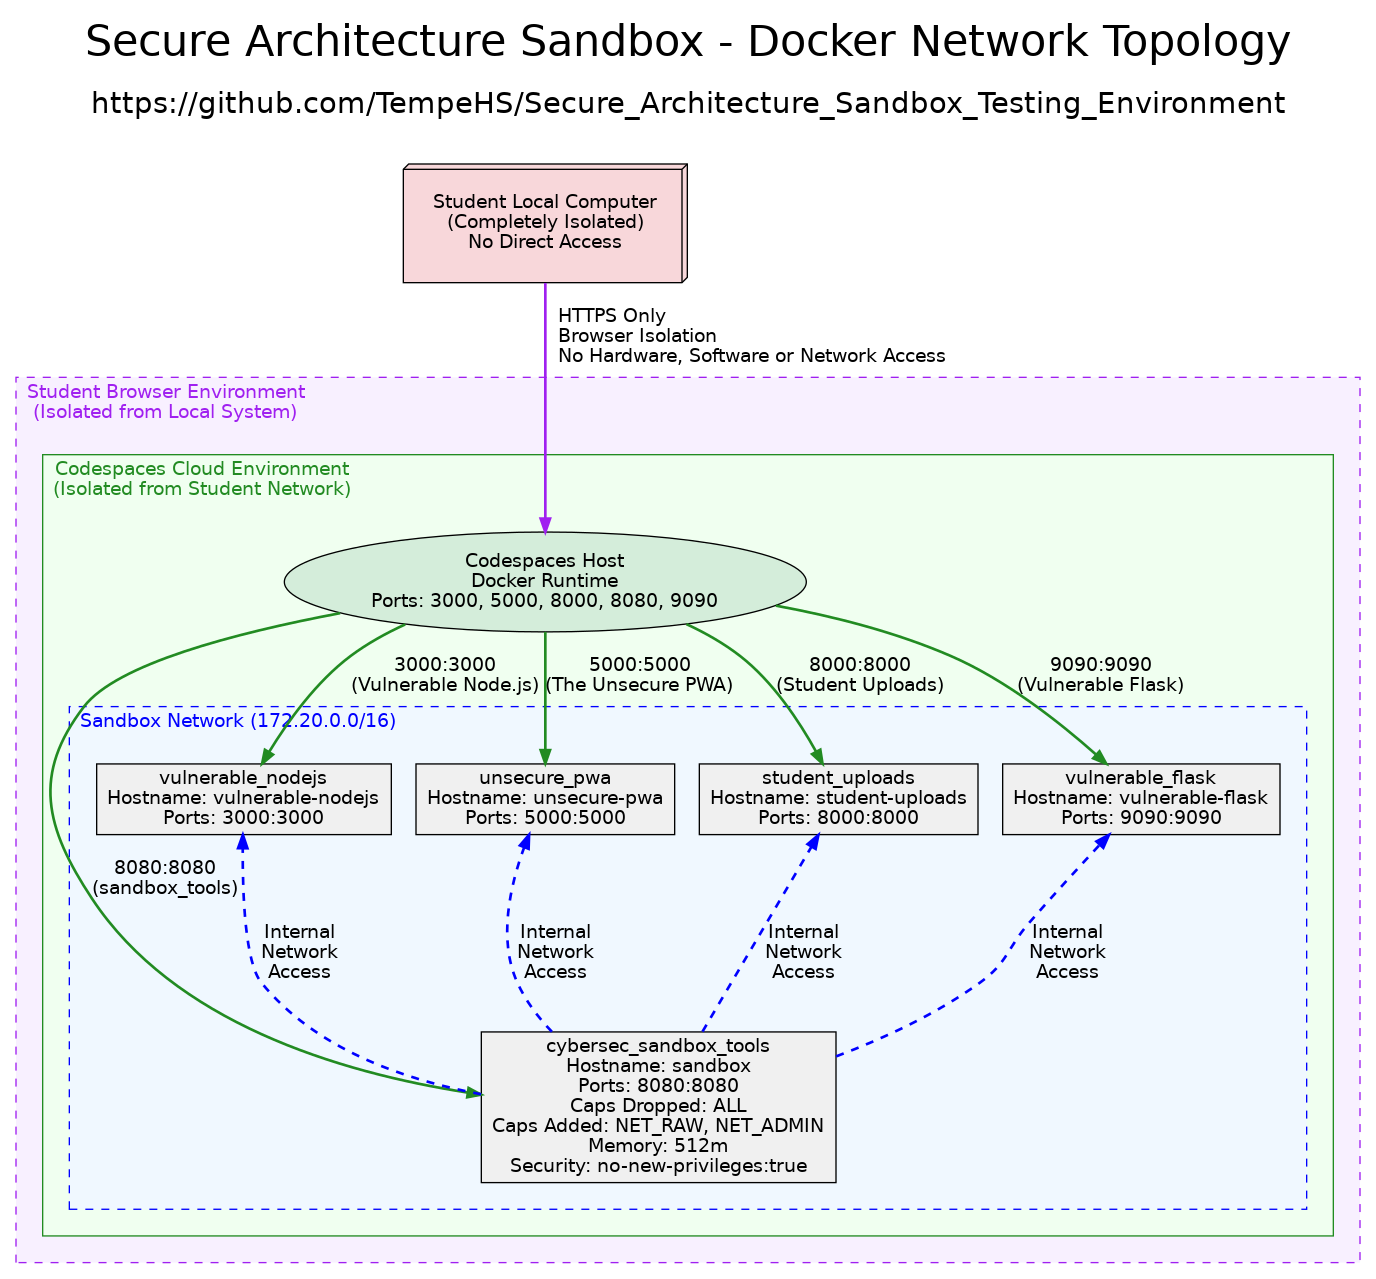
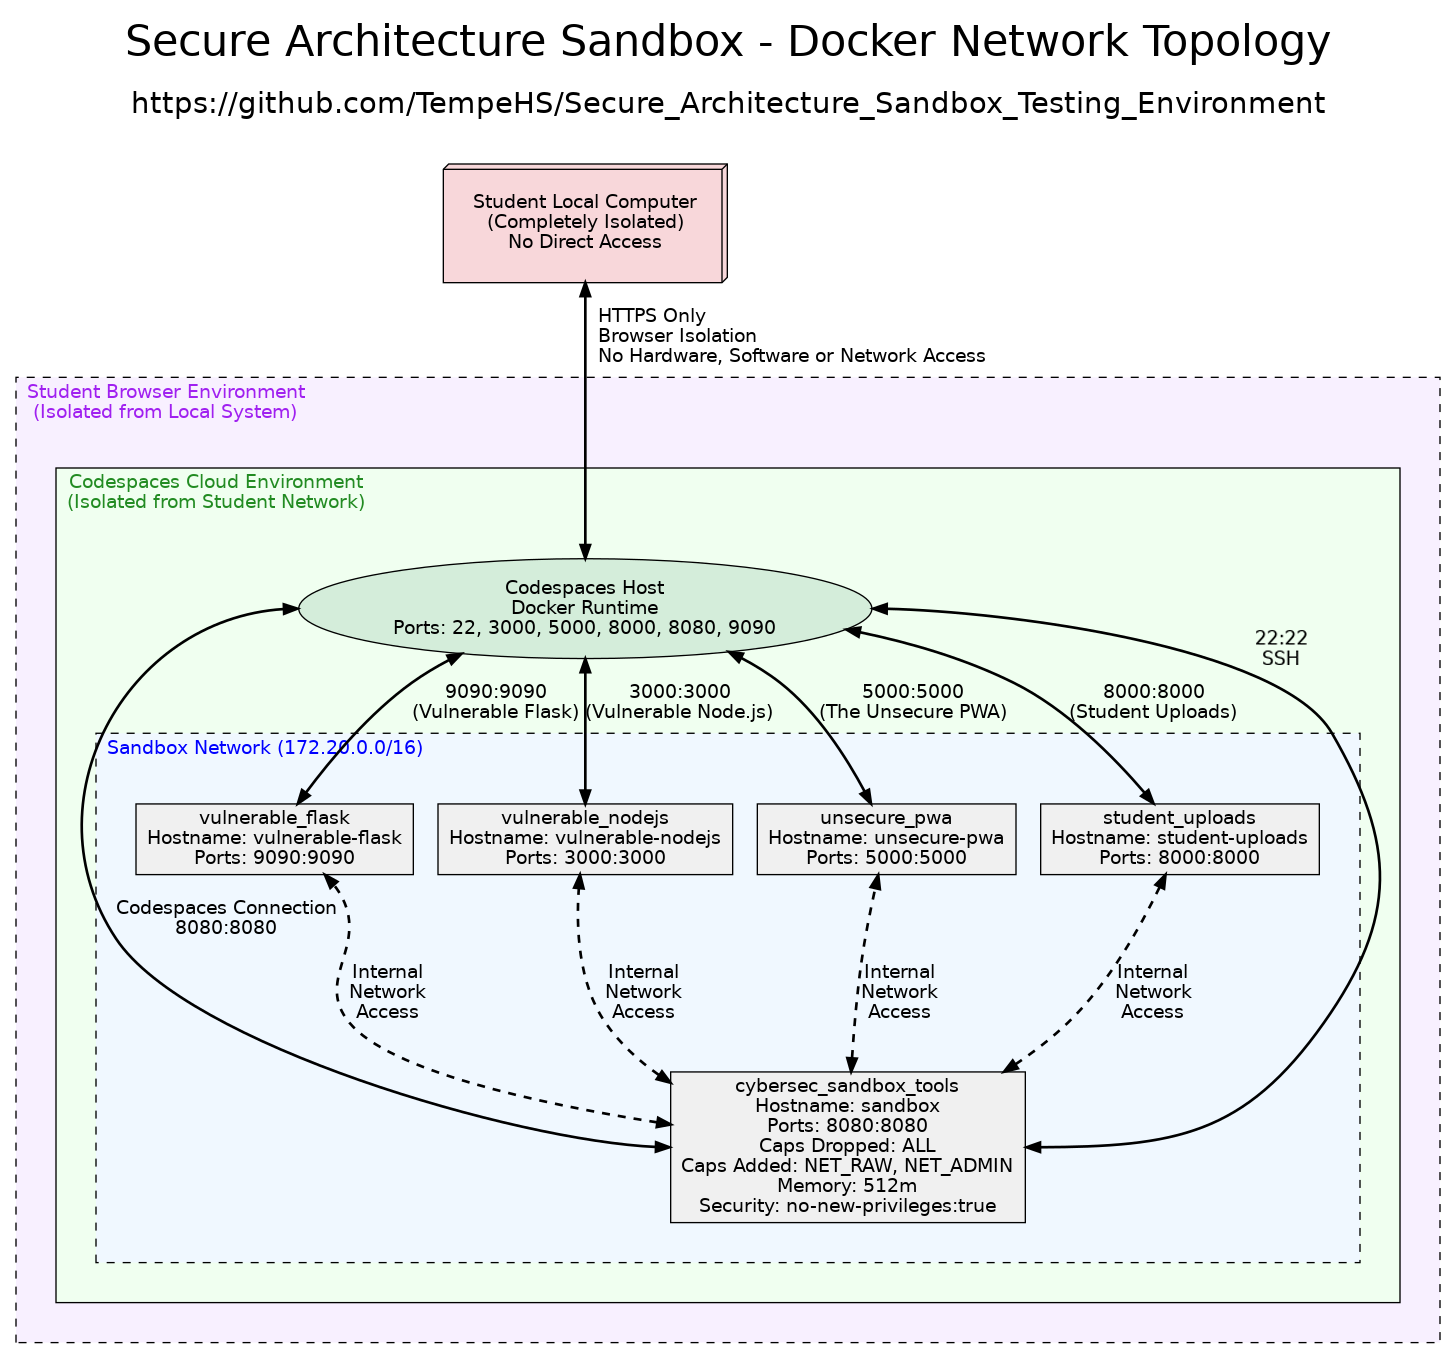
content improve

diff --git a/src/tools/network_visualizer.py b/src/tools/network_visualizer.py
@@ -212,13 +212,14 @@ def analyse_sandbox_isolation(docker_info):
     return analysis
 
 
-def create_enhanced_network_graph(docker_info, analysis, output_path):
+def create_enhanced_network_graph(docker_info, analysis, output_path, include_ssh=False):
     """Create an enhanced network visualization with security details."""
     try:
         # Create a temporary DOT file for custom graph generation
         with tempfile.NamedTemporaryFile(mode='w', suffix='.dot',
                                          delete=False) as f:
-            dot_content = generate_custom_dot_graph(docker_info, analysis)
+            dot_content = generate_custom_dot_graph(
+                docker_info, analysis, include_ssh)
             f.write(dot_content)
             dot_file = f.name
 
@@ -241,11 +242,16 @@ def create_enhanced_network_graph(docker_info, analysis, output_path):
     return True
 
 
-def generate_custom_dot_graph(docker_info, analysis):
+def generate_custom_dot_graph(docker_info, analysis, include_ssh=False):
     """Generate a custom DOT graph with detailed security information."""
     dot_lines = [
         'digraph "Docker Network Topology" {',
         '    rankdir=TB;',
+        '    compound=true;',
+        '    overlap=false;',
+        '    splines=true;',
+        '    layers="main:text";',
+        '    layer="main";',
         '    node [shape=box, style=rounded, fontname="Roboto"];',
         '    edge [style=solid, fontname="Roboto"];',
         '    ',
@@ -265,7 +271,7 @@ def generate_custom_dot_graph(docker_info, analysis):
         '        colour=purple;',
         '        fillcolor="#f8f0ff";',
         '        fontcolor=purple;',
-        '        margin=20;',
+        '        margin=30;',
         '        ',
         '        subgraph cluster_codespaces {',
         '            label="Codespaces Cloud Environment\\n(Isolated from Student Network)";',
@@ -275,10 +281,10 @@ def generate_custom_dot_graph(docker_info, analysis):
         '            colour="#228B22";',
         '            fillcolor="#f0fff0";',
         '            fontcolor="#228B22";',
-        '            margin=20;',
+        '            margin=30;',
         '            ',
         '            "Host System" [',
-        '                label="Codespaces Host\\nDocker Runtime\\nPorts: 3000, 5000, 8000, 8080, 9090";',
+        '                label="Codespaces Host\\nDocker Runtime\\nPorts: 22, 3000, 5000, 8000, 8080, 9090";',
         '                fillcolor="#d4edda";',
         '                style=filled;',
         '                shape=ellipse;',
@@ -293,7 +299,7 @@ def generate_custom_dot_graph(docker_info, analysis):
         '                colour=blue;',
         '                fillcolor="#f0f8ff";',
         '                fontcolor=blue;',
-        '                margin=20;',
+        '                margin=30;',
         '                ',
     ]
 
@@ -371,6 +377,8 @@ def generate_custom_dot_graph(docker_info, analysis):
         ]
         label_parts.extend(security_details)
 
+        # SSH label is now on the connection line, not in the box
+
         label = '\\n'.join(label_parts)
 
         dot_lines.append(f'                "{container_name}" [')
@@ -381,7 +389,8 @@ def generate_custom_dot_graph(docker_info, analysis):
         dot_lines.append('')
 
     # New layout: apps on top, whitespace, cybersec_sandbox at bottom
-    dot_lines.append('                // Row 1: Vulnerable apps at top')
+    dot_lines.append(
+        '                // Row 1: Vulnerable apps at top')
     apps_rank = ('                { rank=min; "vulnerable_nodejs"; "unsecure_pwa"; '
                  '"student_uploads"; "vulnerable_flask"; }')
     dot_lines.append(apps_rank)
@@ -426,17 +435,24 @@ def generate_custom_dot_graph(docker_info, analysis):
     dot_lines.append('            }')  # Close sandbox cluster
     dot_lines.append('            ')
     dot_lines.append(
-        '            // Host to cybersec_sandbox connection with cluster constraints')
+        '            // Host to cybersec_sandbox connection within codespaces')
     dot_lines.append('            "Host System" -> "cybersec_sandbox" [')
-    dot_lines.append('                label="8080:8080\\n(sandbox_tools)";')
+    if include_ssh:
+        dot_lines.append(
+            '                label="Codespaces Connection\\n8080:8080\\n\\n22:22 SSH";')
+    else:
+        dot_lines.append(
+            '                label="Codespaces Connection\\n8080:8080";')
     dot_lines.append('                labeldistance=1.5;')
     dot_lines.append('                labelangle=0;')
     dot_lines.append('                style=bold;')
     dot_lines.append('                colour="#228B22";')
-    dot_lines.append('                ltail=cluster_codespaces;')
-    dot_lines.append('                lhead=cluster_sandbox;')
+    dot_lines.append('                dir=both;')
+    dot_lines.append('                tailport=w;')
+    dot_lines.append('                headport=w;')
     dot_lines.append('            ];')
     dot_lines.append('            ')
+
     dot_lines.append('        }')     # Close codespaces cluster
     dot_lines.append('    }')         # Close browser cluster
     dot_lines.append('    ')
@@ -465,6 +481,7 @@ def generate_custom_dot_graph(docker_info, analysis):
         '        labelangle=10;',
         '        style=bold;',
         '        colour=purple;',
+        '        dir=both;',
         '    ];',
         '    '
     ])
@@ -474,7 +491,7 @@ def generate_custom_dot_graph(docker_info, analysis):
     dot_lines.extend([
         '    ',
         '    // External host connections to apps (direct from host to top row)',
-        '    edge [style=bold, colour="#228B22"];',
+        '    edge [style=bold, colour="#228B22", dir=both];',
         '    "Host System" -> "vulnerable_nodejs" [',
         '        label="3000:3000\\n(Vulnerable Node.js)";',
         '        labeldistance=1.5;',
@@ -496,8 +513,24 @@ def generate_custom_dot_graph(docker_info, analysis):
         '        labelangle=0;',
         '    ];',
         '    ',
+    ])
+
+    # 3. Third: 22:22 SSH connection (rightmost, from cybersec up to host)
+    dot_lines.extend([
+        '    // SSH Terminal Access (upward from cybersec to host on right)',
+        '    "cybersec_sandbox" -> "Host System" [',
+        '        label="";',
+        '        style=bold;',
+        '        colour="#FF6B35";',
+        '        constraint=false;',
+        '        splines=ortho;',
+        '        dir=both;',
+        '        tailport=e;',
+        '        headport=e;',
+        '    ];',
+        '    ',
         '    // Internal sandbox connections (cybersec tools → apps)',
-        '    edge [style=dashed, colour=blue, penwidth=2];',
+        '    edge [style=dashed, colour=blue, penwidth=2, dir=both];',
         '    "cybersec_sandbox" -> "vulnerable_nodejs" [',
         '        label="Internal\\nNetwork\\nAccess";',
         '    ];',
@@ -601,17 +634,27 @@ def main():
     output_dir = '/workspaces/Secure_Architecture_Sandbox_Testing_Environment/reports'
     os.makedirs(output_dir, exist_ok=True)
 
-    # Generate network visualization
+    # Generate network visualizations (both versions)
     timestamp = datetime.now().strftime('%Y%m%d_%H%M%S')
-    output_path = os.path.join(
-        output_dir, f'docker_network_topology_{timestamp}.png')
 
     print("🎨 Generating network visualization...")
+
+    # First version without SSH
+    output_path = os.path.join(
+        output_dir, f'docker_network_topology_{timestamp}.png')
     if create_enhanced_network_graph(docker_info, analysis, output_path):
-        print(f"✅ Network visualization completed successfully!")
-        print(f"📁 Output saved to: {output_path}")
+        print(f"✓ Network visualization saved to: {output_path}")
     else:
         print("❌ Failed to generate network visualization")
+        return 1
+
+    # Second version with SSH
+    output_path_ssh = os.path.join(
+        output_dir, f'docker_network_topology_with_ssh_{timestamp}.png')
+    if create_enhanced_network_graph(docker_info, analysis, output_path_ssh, include_ssh=True):
+        print(f"✓ Network visualization with SSH saved to: {output_path_ssh}")
+    else:
+        print("❌ Failed to generate SSH network visualization")
         return 1
 
     # Generate detailed report

diff --git a/samples/backdoor-apps/backdoor_app.py b/samples/backdoor-apps/backdoor_app.py
@@ -281,7 +281,7 @@ def not_found(error):
 
 if __name__ == '__main__':
     print("🚀 Starting SecureApp Business Portal...")
-    print("🌐 Server running on http://localhost:5000")
+    print("🌐 Server running on http://localhost:6000")
     print("📋 Available endpoints:")
     print("   - / (Home)")
     print("   - /about (About Us)")
@@ -294,4 +294,4 @@ if __name__ == '__main__':
     # Add hidden functionality logging
     app.logger.disabled = True  # Disable logging to hide backdoor access
 
-    app.run(host='0.0.0.0', port=5000, debug=False)
+    app.run(host='0.0.0.0', port=6000, debug=False)

diff --git a/docs/exercises/2.sandbox-security-analysis-exercise.md b/docs/exercises/2.sandbox-security-analysis-exercise.md
@@ -56,15 +56,15 @@ Think of sandbox analysis like having a separate, monitored workshop where you c
 
 **Step 1.1: Explore the Sandbox Environment**
 ```bash
-# Check you're in the security tools container
-docker exec -it cybersec_sandbox bash
-hostname -I  # Should show: 172.20.0.2
+# Connect to the security tools container
+docker exec -it cybersec_sandbox bash # Should change terminal to `docker`
+hostname -I  # Should show: 172.20.0.4
 ```
 
 **Step 1.2: Understand the Network Isolation**
 ```bash
 # Scan for other containers in the sandbox network
-nmap -sn 172.20.0.0/16
+nmap -sn 172.20.0.1-100
 
 # Check network connectivity
 ping -c 3 172.20.0.3  # Should work (internal network)
@@ -77,8 +77,13 @@ ping -c 3 google.com   # Should fail (no external access)
 
 **Syllabus Focus:** **Behavioural analysis and threat detection**
 
+**Important:** All suspicious applications must be analysed inside the sandbox container to ensure proper isolation and monitoring.
+
 **Step 2.1: Examine a Suspicious Script (Safely)**
 ```bash
+# Ensure you're inside the sandbox container
+docker exec -it cybersec_sandbox bash
+
 # Navigate to sample applications
 cd /workspace/samples/suspicious-scripts
 
@@ -94,7 +99,7 @@ cat suspicious_script.py
 
 **Step 2.2: Set Up Monitoring**
 ```bash
-# Create analysis workspace
+# Create analysis workspace (inside the container)
 mkdir /tmp/analysis
 cd /tmp/analysis
 
@@ -128,31 +133,45 @@ diff network_before.log network_after.log
 
 **Syllabus Focus:** **Security testing and evaluation** through behavioural monitoring
 
+**Important:** This activity must be performed inside the sandbox container to demonstrate proper isolation. The backdoor application runs internally without external access, simulating how malware operates in isolated environments.
+
 **Step 3.1: Start Monitoring a Web Application**
 ```bash
-# Start the backdoor application
-python /workspace/samples/backdoor-apps/backdoor_app.py &
+# Ensure you're inside the sandbox container
+docker exec -it cybersec_sandbox bash
+
+# Navigate to the workspace inside the container
+cd /workspace
+
+# Start the backdoor application (runs internally on port 6000)
+python samples/backdoor-apps/backdoor_app.py &
 APP_PID=$!
 sleep 5  # Let it start
 ```
 
 **Step 3.2: Test Normal Functionality**
 ```bash
-# Test normal web pages
-curl http://localhost:5000/
-curl http://localhost:5000/about
+# Test normal web pages (from inside the container)
+curl http://localhost:6000/
+curl http://localhost:6000/about
 ```
 
 **Step 3.3: Search for Hidden Functionality**
 ```bash
-# Test common backdoor paths
-curl http://localhost:5000/admin
-curl http://localhost:5000/shell  
-curl http://localhost:5000/cmd
-curl http://localhost:5000/backdoor
+# Test common backdoor paths (from inside the container)
+curl http://localhost:6000/admin
+curl http://localhost:6000/shell  
+curl http://localhost:6000/cmd
+curl http://localhost:6000/backdoor
 
-# If backdoor found, test carefully
-curl "http://localhost:5000/backdoor?cmd=whoami"
+# Test actual hidden backdoor endpoints in this application
+curl http://localhost:6000/admin_debug_console
+curl http://localhost:6000/system_health_check
+curl http://localhost:6000/backup_utility
+
+# If backdoor found, test carefully (example with actual endpoint)
+curl "http://localhost:6000/admin_debug_console?cmd=whoami"
+curl "http://localhost:6000/backup_utility?action=read&file=/etc/passwd"
 ```
 
 **Step 3.4: Analyse Findings**
@@ -168,6 +187,8 @@ kill $APP_PID
 
 **Syllabus Focus:** **Resource limitation and monitoring**
 
+**Important:** Resource monitoring must be performed inside the sandbox to demonstrate proper resource isolation and control.
+
 **Step 4.1: Baseline System Resources**
 ```bash
 # Record normal resource usage
@@ -177,8 +198,8 @@ free -h > baseline_memory.log
 
 **Step 4.2: Execute Resource-Intensive Application**
 ```bash
-# Start crypto mining simulation
-python /workspace/samples/resource-abuse/crypto_miner.py &
+# Start crypto mining simulation (ensure you're in the container)
+python samples/resource-abuse/crypto_miner.py &
 MINER_PID=$!
 ```
 

diff --git a/docs/exercises/6.penetration-testing-exercise.md b/docs/exercises/6.penetration-testing-exercise.md
@@ -111,10 +111,14 @@ python src/analyser/network_cli.py --capture-traffic --duration 120 --educationa
 
 **Step 4: Sandbox Behavioural Analysis**
 ```bash
-# Analyse suspicious application behaviour
+# Ensure you're inside the sandbox container
+docker exec -it cybersec_sandbox bash
+
+# Navigate to workspace and analyse suspicious application behaviour
+cd /workspace
 python samples/backdoor-apps/backdoor_app.py &
 sleep 5
-python src/analyser/network_cli.py --monitor-connections --duration 60 --educational
+python /project/src/analyser/network_cli.py --monitor-connections --duration 60 --educational
 ```
 
 **Expected Results:**
@@ -206,18 +210,22 @@ curl -X POST "http://localhost:5000/login" \
 
 **Step 1: Access Maintenance**
 ```bash
-# Simulate persistence mechanisms
+# Ensure you're inside the sandbox container
+docker exec -it cybersec_sandbox bash
+
+# Navigate to workspace and simulate persistence mechanisms
+cd /workspace
 python samples/backdoor-apps/backdoor_app.py &
 
 # Monitor persistent connections
-python src/analyser/network_cli.py --monitor-connections --duration 60 --educational
+python /project/src/analyser/network_cli.py --monitor-connections --duration 60 --educational
 ```
 
 **Step 2: Data Exfiltration Simulation**  
 ```bash
-# Monitor exfiltration patterns
+# Monitor exfiltration patterns (from inside the container)
 python samples/network-scenarios/backdoor_simulation.py 60 &
-python src/analyser/network_cli.py --capture-traffic --duration 70 --educational
+python /project/src/analyser/network_cli.py --capture-traffic --duration 70 --educational
 ```
 
 **Step 3: Impact Assessment**
